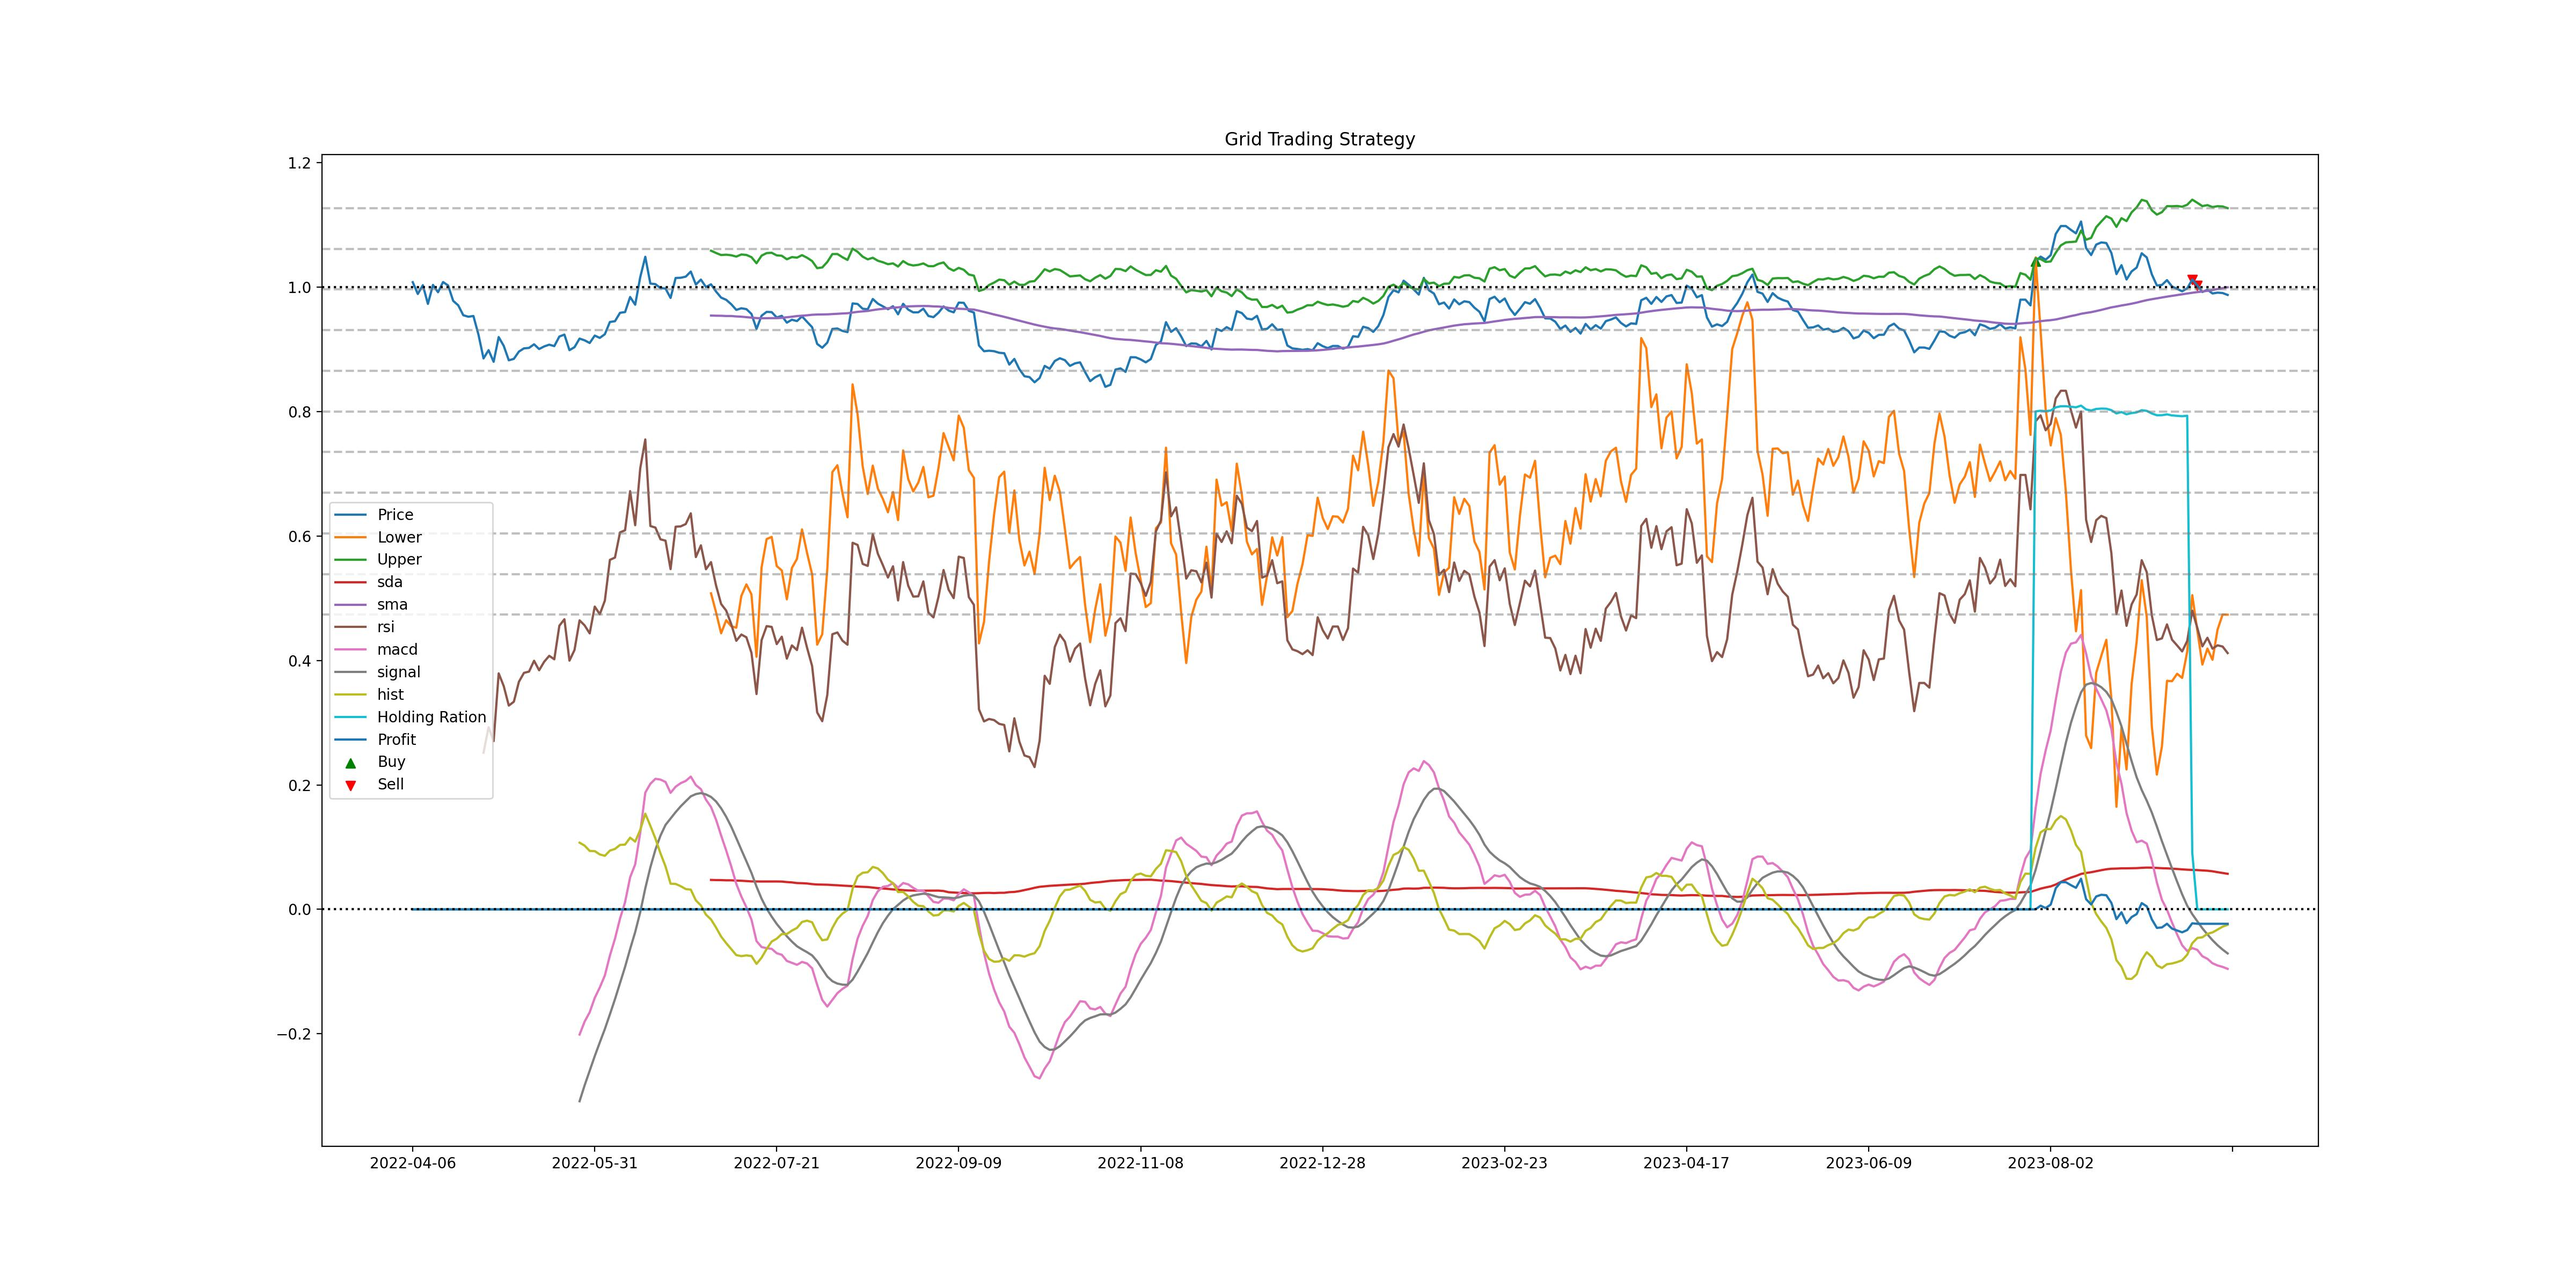
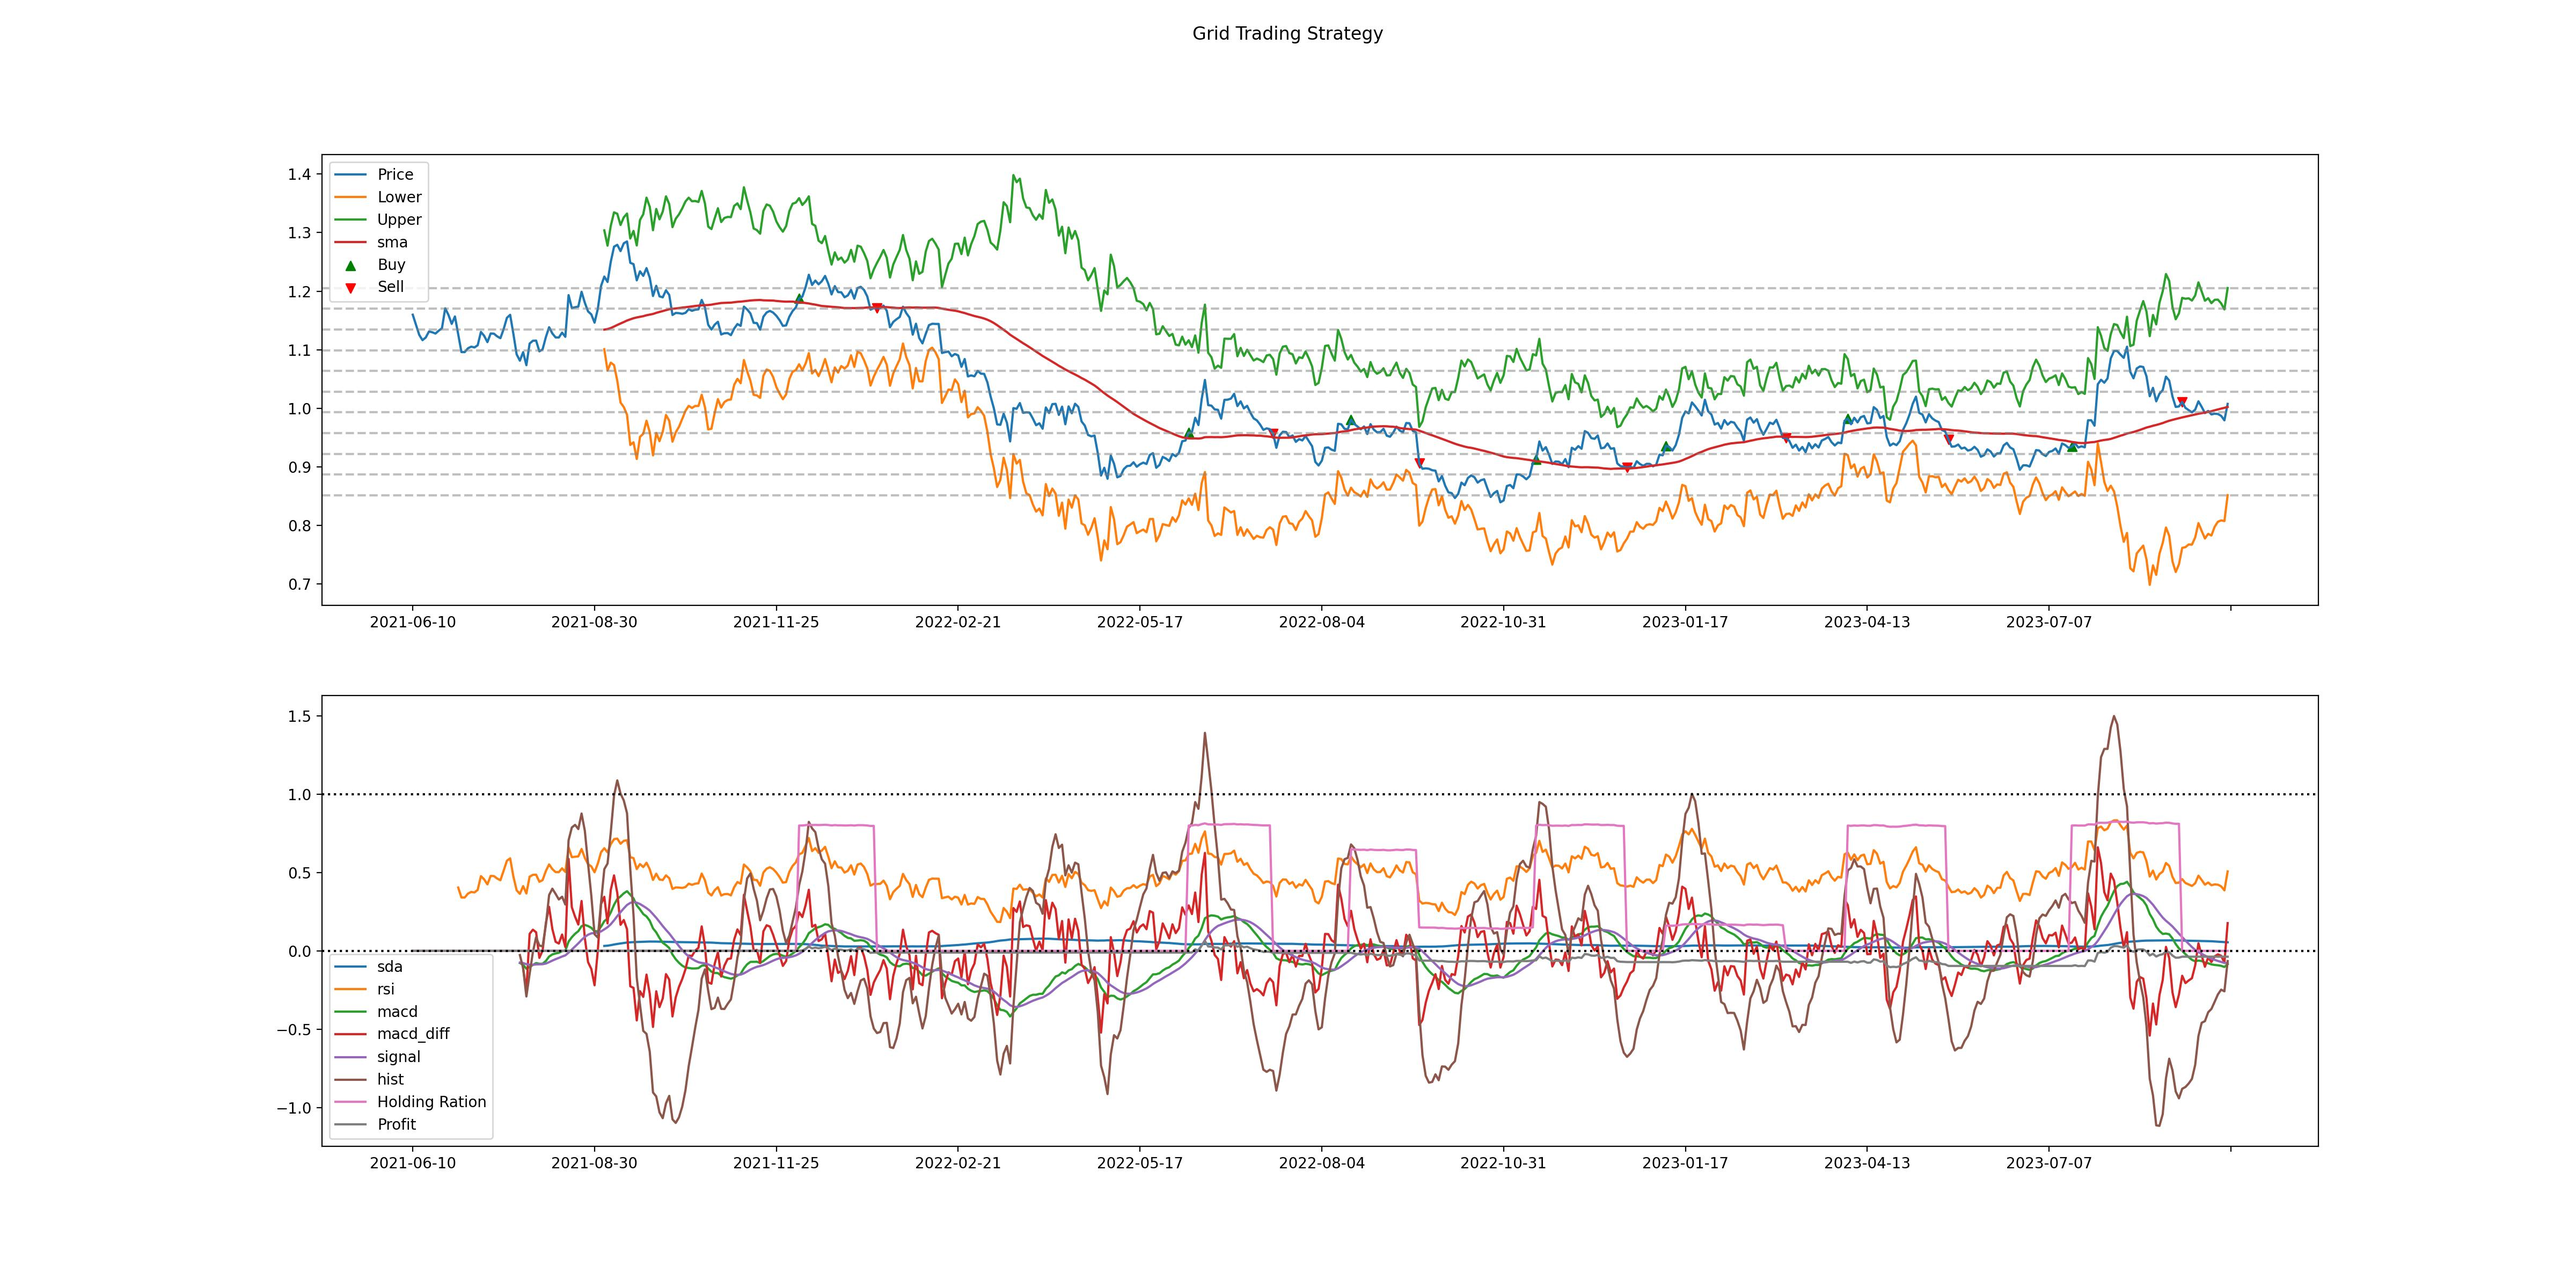
slow

diff --git a/ayaa/strategy/grid_strategy.py b/ayaa/strategy/grid_strategy.py
@@ -49,15 +49,15 @@ class GridTradingStrategy:
         data:[[date price], [date price]...]'''
         calculate_perf(data, window=self.spara['window'], price_col='close', fill_na=True)
         # 计算上下轨
-        data['min_width'] = data['sma'] * self.spara['min_width'] / self.spara['l_num_std']
-        data['max_width'] = data['sma'] * self.spara['max_width'] / self.spara['u_num_std']
+        data['min_width'] = data['sma'] * self.spara['min_width'] / self.spara['num_std']
+        data['max_width'] = data['sma'] * self.spara['max_width'] / self.spara['num_std']
         data['fluct'] = data[['max_width', 'sda']].min(axis=1)
         data['fluct'] = data[['min_width', 'fluct']].max(axis=1)
         #fluct = data['fluct']
         fluct = data['sda']
      
-        data['upper_band'] = data['sma'] + (fluct*self.spara['u_num_std']) + data['sbc5']*self.spara['u_sbc5']
-        data['lower_band'] = data['sma'] - (fluct*self.spara['l_num_std']) + data['sbc5']*self.spara['l_sbc5']
+        data['upper_band'] = data['sma'] + (fluct*self.spara['num_std']) + data['sbc5']*self.spara['sbc5']
+        data['lower_band'] = data['sma'] - (fluct*self.spara['num_std']) + data['sbc5']*self.spara['sbc5']
 
 
     def build_strategy(self, data):
@@ -175,33 +175,36 @@ class GridTradingStrategy:
     
     def visualize_strategy(self):
         """可视化策略执行"""
-        plt.figure(figsize=(24,12))
-        plt.plot(self.data['date'], self.data['close'], label='Price')
-        plt.plot(self.data['date'], self.data['lower_band'], label='Lower')
-        plt.plot(self.data['date'], self.data['upper_band'], label='Upper')
-        plt.plot(self.data['date'], self.data['sda'], label='sda')
-        plt.plot(self.data['date'], self.data['sma'], label='sma')
-        plt.plot(self.data['date'], self.data['rsi'], label='rsi')
-        plt.plot(self.data['date'], self.data['macd']*10, label='macd')
-        plt.plot(self.data['date'], self.data['signal']*10, label='signal')
-        plt.plot(self.data['date'], self.data['hist']*10, label='hist')
+        fig, (ax1, ax2) = plt.subplots(2)
+        fig.set_size_inches(24,12)
+        # plt.figure(figsize=(24,12))
+        ax1.plot(self.data['date'], self.data['close'], label='Price')
+        ax1.plot(self.data['date'], self.data['lower_band'], label='Lower')
+        ax1.plot(self.data['date'], self.data['upper_band'], label='Upper')
+        ax1.plot(self.data['date'], self.data['sma'], label='sma')
+        ax2.plot(self.data['date'], self.data['sda'], label='sda')
+        ax2.plot(self.data['date'], self.data['rsi'], label='rsi')
+        ax2.plot(self.data['date'], self.data['macd']*10, label='macd')
+        ax2.plot(self.data['date'], self.data['macd_diff']*100, label='macd_diff')
+        ax2.plot(self.data['date'], self.data['signal']*10, label='signal')
+        ax2.plot(self.data['date'], self.data['hist']*100, label='hist')
         # plt.plot(self.data['date'], self.data['hist_diff']*10, label='hist_diff')
 
-        plt.plot([i['date'] for i in self.holding_rations], [i['ration'] for i in self.holding_rations], label='Holding Ration')
-        plt.plot([i['date'] for i in self.holding_rations], [i['profit'] for i in self.holding_rations], label='Profit')
-        plt.axhline(y=0, color="black", linestyle=":")
-        plt.axhline(y=1, color="black", linestyle=":")
+        ax2.plot([i['date'] for i in self.holding_rations], [i['ration'] for i in self.holding_rations], label='Holding Ration')
+        ax2.plot([i['date'] for i in self.holding_rations], [i['profit'] for i in self.holding_rations], label='Profit')
+        ax2.axhline(y=0, color="black", linestyle=":")
+        ax2.axhline(y=1, color="black", linestyle=":")
         
         # 绘制买卖点
         buys = [t for t in self.positions if t['type'] == 'BUY']
         sells = [t for t in self.positions if t['type'] == 'SELL']
         
-        plt.scatter(
+        ax1.scatter(
             [b['date'] for b in buys],
             [b['price'] for b in buys],
             color='green', marker='^', label='Buy'
         )
-        plt.scatter(
+        ax1.scatter(
             [s['date'] for s in sells],
             [s['price'] for s in sells],
             color='red', marker='v', label='Sell'
@@ -209,12 +212,17 @@ class GridTradingStrategy:
         
         # 绘制网格线
         for level in self.grid_levels:
-            plt.axhline(y=level, color='gray', linestyle='--', alpha=0.5)
+            ax1.axhline(y=level, color='gray', linestyle='--', alpha=0.5)
             
-        plt.title('Grid Trading Strategy')
-        plt.gca().xaxis.set_major_locator(ticker.MultipleLocator(len(self.data)/10))
-        plt.legend()
-        plt.savefig(f'misc/{self.symbol}.jpg', dpi = 200)
+        fig.suptitle('Grid Trading Strategy')
+        # fig.legend()
+        ax1.xaxis.set_major_locator(ticker.MultipleLocator(len(self.data)/10))
+        ax1.legend()
+
+        # ax2.title('Grid Trading Strategy')
+        ax2.xaxis.set_major_locator(ticker.MultipleLocator(len(self.data)/10))
+        ax2.legend()
+        fig.savefig(f'misc/{self.symbol}.jpg', dpi = 200)
         # plt.show()
 
 # 使用示例

diff --git a/painter3.py b/painter3.py
@@ -131,25 +131,13 @@ if __name__ == '__main__':
             'high': 0.20,
             'log': True  # 对数尺度采样
         },
-        'u_num_std': {
+        'num_std': {
             'type': 'float',
             'low': 2,
             'high': 10,
             'log': True  # 对数尺度采样
         },
-        'l_num_std': {
-            'type': 'float',
-            'low': 2,
-            'high': 10,
-            'log': True  # 对数尺度采样
-        },
-        'u_sbc5': {
-            'type': 'float',
-            'low': 0.1,
-            'high': 10,
-            'log': True  # 对数尺度采样
-        },
-        'l_sbc5': {
+        'sbc5': {
             'type': 'float',
             'low': 0.1,
             'high': 10,
@@ -182,7 +170,7 @@ if __name__ == '__main__':
 
 
     # 执行优化
-    study = optuna.create_study(direction='maximize', study_name="r3-total_avg-num_std-sbc", storage="mysql+pymysql://root:12345678@localhost/foo", load_if_exists=True)
+    study = optuna.create_study(direction='maximize', study_name="r5-total_avg-slowmacd", storage="mysql+pymysql://root:12345678@localhost/foo", load_if_exists=True)
     objective = create_objective(evalution, HYPERPARAM_SPACE)
     study.optimize(objective, n_trials=500)
 

diff --git a/painter4.py b/painter4.py
@@ -55,7 +55,7 @@ def evalution(spara):
 
     res = []
     symbol_num = 10
-    length = 360
+    length = 560
     batch_num = 1
 
     # symbol_list = get_fund_rank_list(symbol_num)
@@ -96,6 +96,10 @@ if __name__ == '__main__':
     # [I 2025-03-30 18:29:31,058] Trial 93 finished with value: 3.936108227230945 and parameters: 
     spara = {'max_holding_ration': 0.8, 'order_percent': 0.1377678930628302, 'u_num_std': 2.257133984723932, 'l_num_std': 8.823753694502832, 
      'u_sbc5': 0.5477913042862884, 'l_sbc5': 6.200430538876671, 'max_width': 0.1, 'min_width': 0.1, 'grid_num': 10, 'window': 60}
+    # I 2025-03-30 18:50:39,025] Trial 21 finished with value: 2.865734351218135 and parameters: 
+    spara = {'max_holding_ration': 0.8, 'order_percent': 0.034003568375669216, 'num_std': 9.332545390458101, 'sbc5': 1.4332153491082669, 'max_width': 0.1, 'min_width': 0.1, 'grid_num': 10, 'window': 60}
+    #[I 2025-03-31 05:47:47,199] Trial 672 finish      ed with value: 4.161163345144168 and paramet      ers: 
+    spara = {'max_holding_ration': 0.8, 'order_percent': 0.1497684498726134, 'num_std': 3.241974529357782, 'sbc5': 1.5836400879401857, 'max_width': 0.1, 'min_width': 0.1, 'grid_num': 10, 'window': 60}
 
     # 执行优化
     evalution(spara)

diff --git a/ayaa/utils/perf.py b/ayaa/utils/perf.py
@@ -24,6 +24,8 @@ def calculate_perf(data, window, price_col='close', fill_na=False):
     df['rsi'] = talib.RSI(df[price_col], timeperiod=14) / 100
     df['macd'], df['signal'], df['hist'] = talib.MACD(df[price_col], fastperiod=12, slowperiod=26, signalperiod=9)
     # df['hist_diff'] = np.diff(df['hist'], prepend=df['hist'][0])
+    # df['macd_diff'] = np.diff(df['macd'], prepend=df['macd'][0])
+    df['macd_diff'] = np.diff(df['macd'], prepend=0)
     # 计算标准差
     df['sda'] = df[price_col].rolling(window=window).std()
     rolling_std = df[price_col].rolling(window=window).std()

diff --git a/ayaa/strategy/strategy_mgr.py b/ayaa/strategy/strategy_mgr.py
@@ -1,4 +1,4 @@
-from ayaa.strategy.grid_strategy import GridTradingStrategy
+from ayaa.strategy.gridl_strategy import GridTradingStrategy
 from ayaa.strategy.shan_strategy import ShanTradingStrategy
 
 class StrategyMgr:
